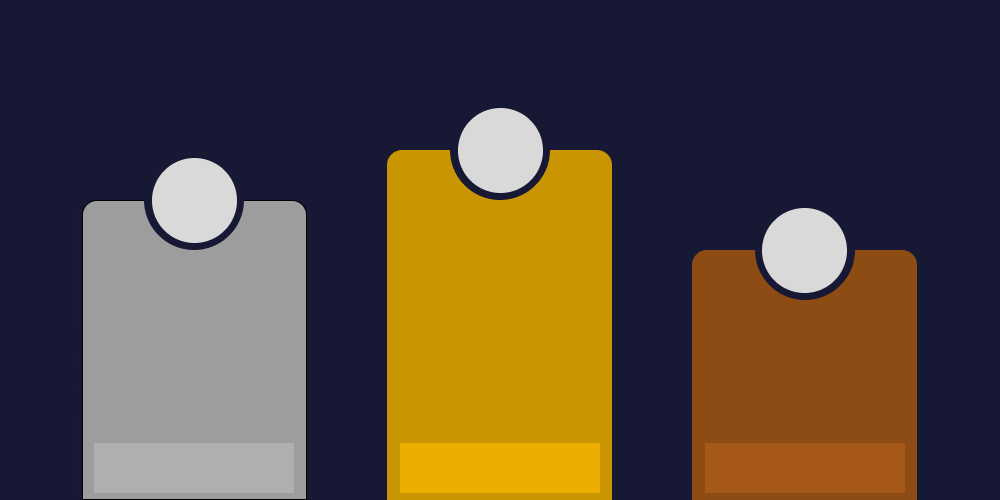
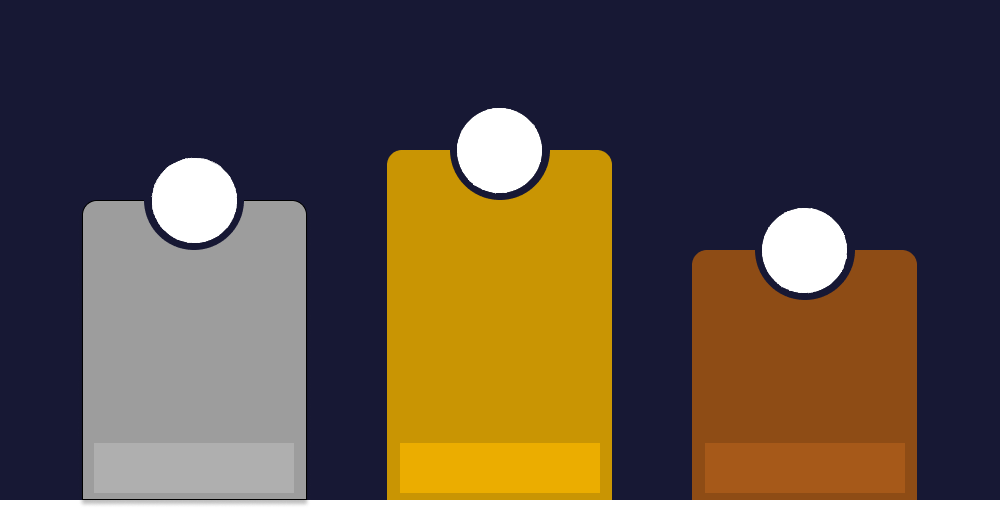
lets go baby i fixed this shizzle

diff --git a/src/modules/xp/leaderboard.command.ts b/src/modules/xp/leaderboard.command.ts
@@ -10,9 +10,9 @@ import {createStandardEmbed} from '../../util/embeds.js'
 import {branding} from '../../util/branding.js'
 import {actualMention} from '../../util/users.js'
 import {getActualDailyStreak} from './dailyReward.command.js'
-import {createImage, getCanvasContext} from '../../util/imageUtils.js'
+import {createImage, font, getCanvasContext} from '../../util/imageUtils.js'
 import { drawText } from '../../util/textRendering.js'
-import { loadImage } from 'canvas'
+import {loadImage, NodeCanvasRenderingContext2DSettings} from 'canvas'
 
 interface LeaderboardType extends APIApplicationCommandOptionChoice<string> {
 	calculate?: (user: DDUser) => Promise<number>,
@@ -89,7 +89,7 @@ export const LeaderboardCommand: Command<ApplicationCommandType.ChatInput> = {
 			return {
 				name: discordUser.username,
 				value: value,
-				avatar: discordUser.avatar
+				avatar: discordUser.displayAvatarURL({ extension: 'png' })
 			}
 		}))
 
@@ -99,7 +99,7 @@ export const LeaderboardCommand: Command<ApplicationCommandType.ChatInput> = {
 		await interaction.followUp({
 			embeds: [
 				createStandardEmbed(member)
-					.setTitle(`${branding.name} Leaderboard`)
+					.setTitle(`${branding.name} Leaderboard - ${traitInfo.name}`)
 					.setImage('attachment://leaderboard.png')
 			],
 			files: [{ attachment: image.toBuffer(), name: 'leaderboard.png' }]
@@ -107,15 +107,99 @@ export const LeaderboardCommand: Command<ApplicationCommandType.ChatInput> = {
 	}
 }
 
-const defaultDiscordLogo = 'https://i.imgur.com/sxS0Due.png'
-
 async function createLeaderboardImage(type: LeaderboardType, [first, second, third]: LeaderboardData[]) {
 	const [canvas, ctx] = getCanvasContext(1000, 500)
 
-	const goldAvatar = await loadImage(first.avatar ?? defaultDiscordLogo)
+	const background = await loadImage('leaderboardBackground.png')
+	ctx.drawImage(background, 0, 0)
 
-	ctx.drawImage(await loadImage('leaderboardBackground.png'))
-	ctx.drawImage(goldAvatar, 43, 142, 85, 85)
+	const goldAvatar = await loadImage(first.avatar)
+	const silverAvatar = await loadImage(second.avatar)
+	const bronzeAvatar = await loadImage(third.avatar)
+
+	ctx.drawImage(goldAvatar, 457, 108, 85, 85)
+	ctx.drawImage(silverAvatar, 152, 158, 85, 85)
+	ctx.drawImage(bronzeAvatar, 762, 208, 85, 85)
+	ctx.drawImage(background, 0, 0)
+
+	drawText(ctx, first.value, font, {
+		x: 405,
+		y: 448,
+		width: 190,
+		height: 40
+	}, {
+		hAlign: 'center',
+		vAlign: 'center',
+		maxSize: 70,
+		minSize: 1,
+		granularity: 3
+	})
+
+	drawText(ctx, first.name, font, {
+		x: 405,
+		y: 213,
+		width: 190,
+		height: 40
+	}, {
+		hAlign: 'center',
+		vAlign: 'center',
+		maxSize: 25,
+		minSize: 1,
+		granularity: 3
+	})
+
+	drawText(ctx, second.value, font, {
+		x: 99,
+		y: 448,
+		width: 190,
+		height: 40
+	}, {
+		hAlign: 'center',
+		vAlign: 'center',
+		maxSize: 70,
+		minSize: 1,
+		granularity: 3
+	})
+
+	drawText(ctx, second.name, font, {
+		x: 99,
+		y: 263,
+		width: 190,
+		height: 40
+	}, {
+		hAlign: 'center',
+		vAlign: 'center',
+		maxSize: 25,
+		minSize: 1,
+		granularity: 3
+	})
+
+	drawText(ctx, third.value, font, {
+		x: 710,
+		y: 448,
+		width: 190,
+		height: 40
+	}, {
+		hAlign: 'center',
+		vAlign: 'center',
+		maxSize: 70,
+		minSize: 1,
+		granularity: 3
+	})
+
+	drawText(ctx, third.name, font, {
+		x: 710,
+		y: 312,
+		width: 190,
+		height: 40
+	}, {
+		hAlign: 'center',
+		vAlign: 'center',
+		maxSize: 25,
+		minSize: 1,
+		granularity: 3
+	})
+
 
 	return canvas
 }
@@ -126,4 +210,5 @@ function formatDays(days: number) {
 	}
 	return `${days} days`
 }
+
 
